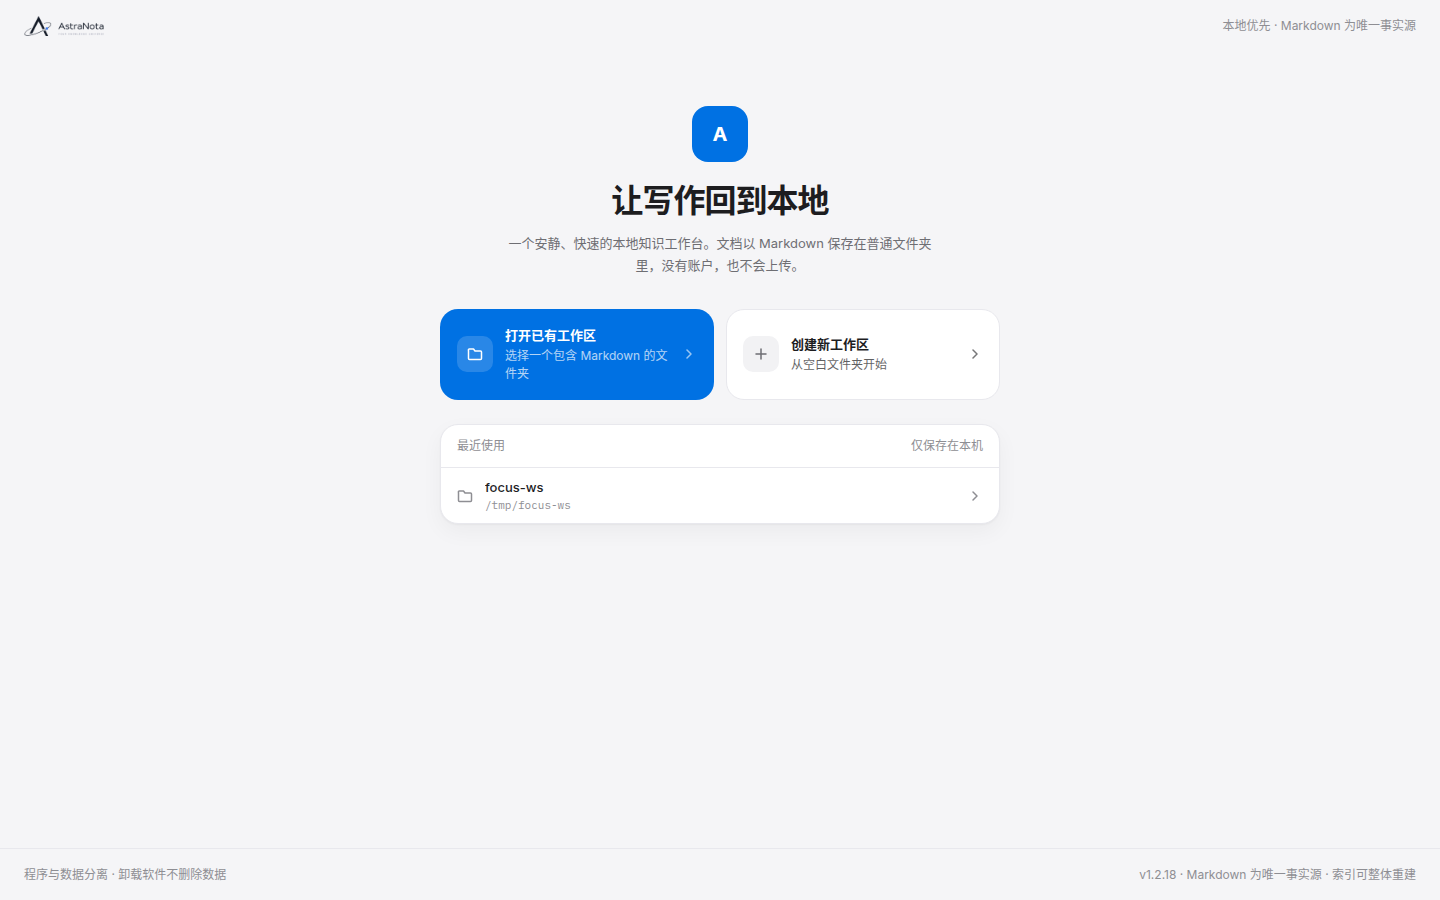
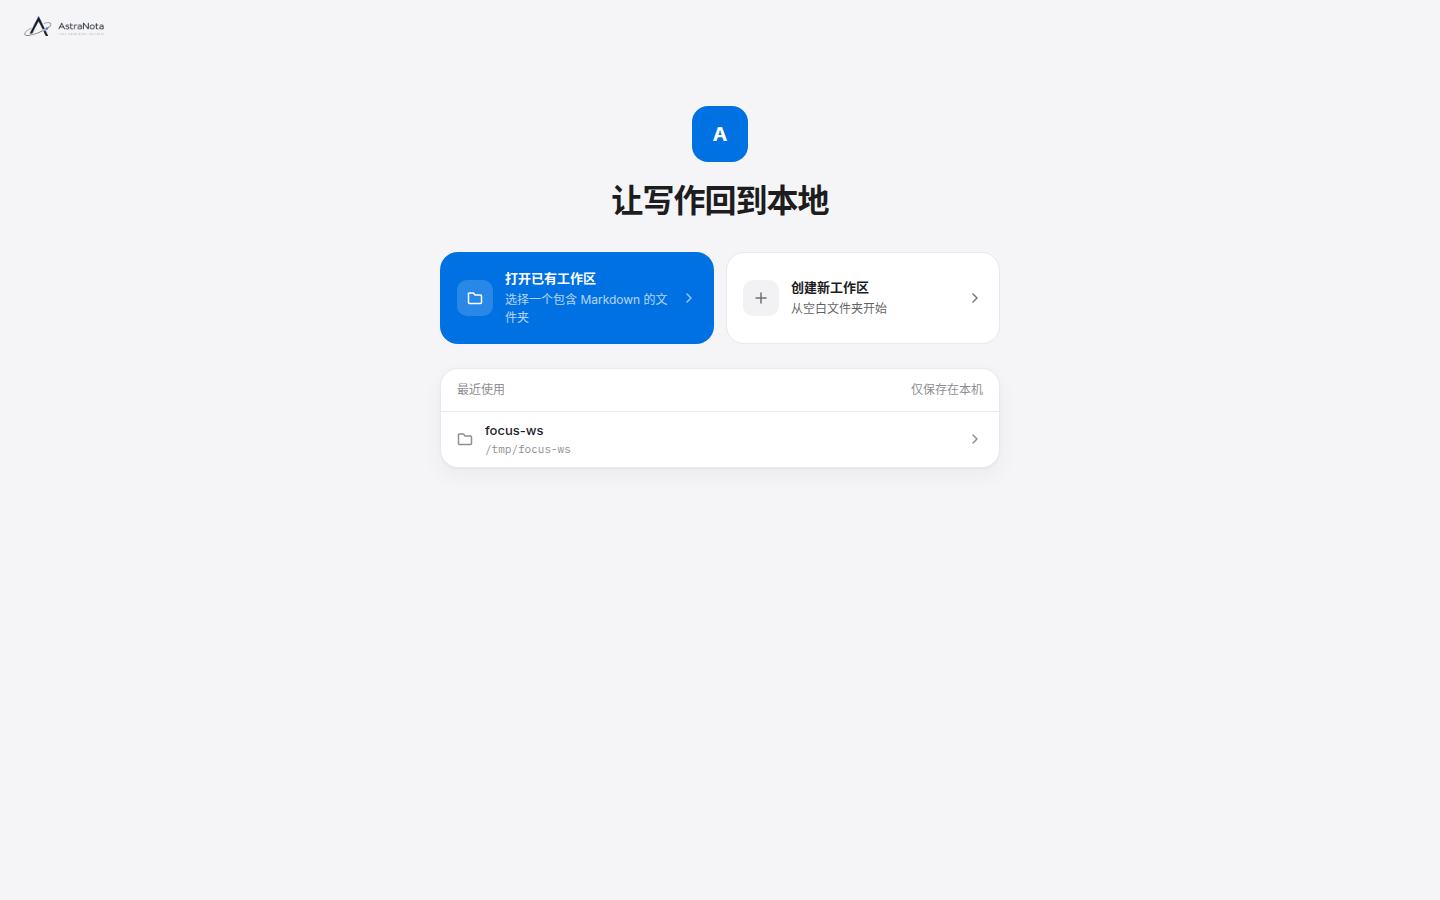
fix(focus-ui): 启动器删除装饰性小字（顶部 Markdown 声明/hero 副标题/底部声明条），保留品牌与主操作；刷新视觉证据

diff --git a/frontend/src/components/layout/WorkspacePicker.tsx b/frontend/src/components/layout/WorkspacePicker.tsx
@@ -3,7 +3,6 @@
  * - 品牌 Hero（KE 标 + 名称 + Alpha + 定位语）
  * - 两操作卡：打开已有工作区（主）/ 创建新工作区（次）
  * - 最近工作区（最多 3 条：名称 + mono 路径截断 + 失效置灰可移除）
- * - 底部声明（程序与数据分离 / 版本 / Markdown 为唯一事实源）
  */
 import { useCallback, useEffect, useState } from 'react'
 import {
@@ -15,7 +14,6 @@ import { isDesktop, pickDirectory } from '../../desktop'
 import { shouldIgnoreReactKeyEvent } from '../../state/shortcuts'
 import { removeRecentWorkspace } from '../../state/workspaceRecent'
 import type { RecentWorkspace, WorkspaceState } from '../../types'
-import { APP_VERSION } from '../../version'
 import { Icon } from '../icons'
 import horizontalLogoLight from '../../assets/astranota/astranota-horizontal-light-800x200.png'
 import horizontalLogoDark from '../../assets/astranota/astranota-horizontal-dark-800x200.png'
@@ -127,14 +125,11 @@ export default function WorkspacePicker({ onOpened, guide = false, onUseDefault 
   return (
     <div className="flex min-h-screen flex-col bg-background">
       {/* 顶部品牌条（无整宽顶栏，只有一条极简品牌行） */}
-      <header className="flex h-[52px] shrink-0 items-center justify-between px-6">
+      <header className="flex h-[52px] shrink-0 items-center px-6">
         <div className="flex items-center gap-2">
           <img src={horizontalLogoLight} alt="AstraNota" className="an-logo-light h-5 w-auto" draggable={false} />
           <img src={horizontalLogoDark} alt="AstraNota" className="an-logo-dark h-5 w-auto" draggable={false} />
         </div>
-        <span className="text-[12px]" style={{ color: 'var(--text-3)' }}>
-          本地优先 · Markdown 为唯一事实源
-        </span>
       </header>
 
       <div className="flex flex-1 items-start justify-center px-6 pb-16 pt-[6vh]">
@@ -154,11 +149,6 @@ export default function WorkspacePicker({ onOpened, guide = false, onUseDefault 
             >
               让写作回到本地
             </h1>
-            <p className="mt-3 max-w-[430px] text-[13px] leading-[1.7]" style={{ color: 'var(--text-2)' }}>
-              {guide
-                ? '选择一个工作区开始写作——文档以 Markdown 保存在普通文件夹里，没有账户，也不会上传。'
-                : '一个安静、快速的本地知识工作台。文档以 Markdown 保存在普通文件夹里，没有账户，也不会上传。'}
-            </p>
           </div>
 
           {/* 两操作卡（主 = 蓝底白字；次 = 白底描边） */}
@@ -312,15 +302,6 @@ export default function WorkspacePicker({ onOpened, guide = false, onUseDefault 
           ) : null}
         </div>
       </div>
-
-      {/* 底部声明 */}
-      <footer
-        className="flex h-[52px] shrink-0 items-center justify-between px-6 text-[12px]"
-        style={{ color: 'var(--text-3)', borderTop: '1px solid var(--border)' }}
-      >
-        <span>程序与数据分离 · 卸载软件不删除数据</span>
-        <span>v{APP_VERSION} · Markdown 为唯一事实源 · 索引可整体重建</span>
-      </footer>
     </div>
   )
 }

diff --git a/docs/focus-ui/evidence/summary.md b/docs/focus-ui/evidence/summary.md
@@ -1,10 +1,10 @@
 # Focus 视觉验收 · 运行摘要（verify-ui.cjs 自动生成）
 
-- 时间：2026-10-20T05:56:52.138Z（耗时 32s）
+- 时间：2026-10-20T06:43:07.977Z（耗时 70.3s）
 - 仓库：/mnt/f/Work/KE Project/knowledge-editor
-- git：focus-ui @ 5ed8fa2（脏文件 6 个）
-- 前端：http://127.0.0.1:5274（脚本独立拉起 pid=27063）
-- 后端：http://127.0.0.1:8000（复用现有）
+- git：focus-ui @ 41ad08f（脏文件 1 个）
+- 前端：http://127.0.0.1:5273（脚本独立拉起 pid=57350）
+- 后端：http://127.0.0.1:8000（脚本自动拉起）
 - 截图：8 张 → /tmp/focus-shots/
 
 ## 断言：119/119 PASS，0 DIFF
@@ -28,4 +28,4 @@
 
 ## 请求失败（4xx/5xx，去重前 15 条）
 
-- 403 http://127.0.0.1:5274/api/workspace/recent-documents
+- 403 http://127.0.0.1:5273/api/workspace/recent-documents
